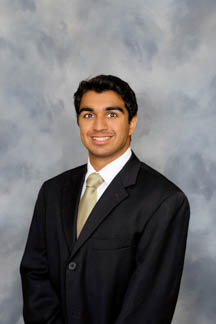
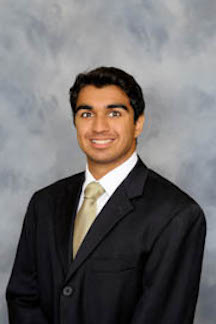
edited Karan's major, hometown, and image

diff --git a/frontend/containers/Officers.js b/frontend/containers/Officers.js
@@ -48,9 +48,9 @@ class Officers extends Component {
 							<OfficerCard
 								position="Treasurer"
 								name="Karan Achtani"
-								hometown="Canton, GA"
+								hometown="Marietta, GA"
 								image="karan-achtani"
-								major="Electrical Engineering"
+								major="Computer Science"
 							/>
 							<OfficerCard
 								position="Secretary"
